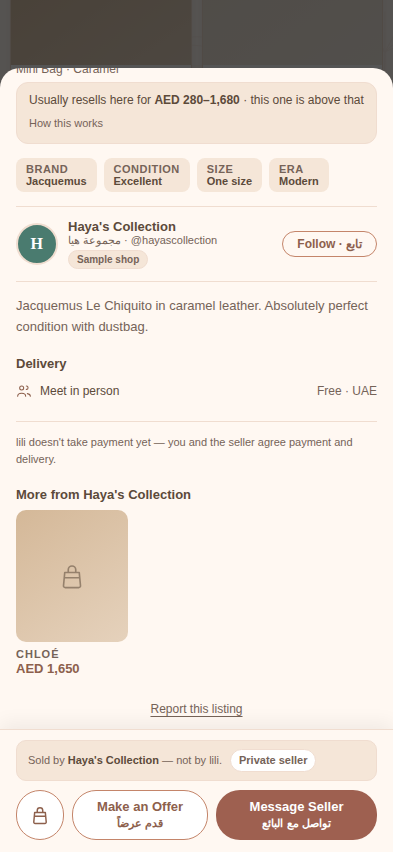
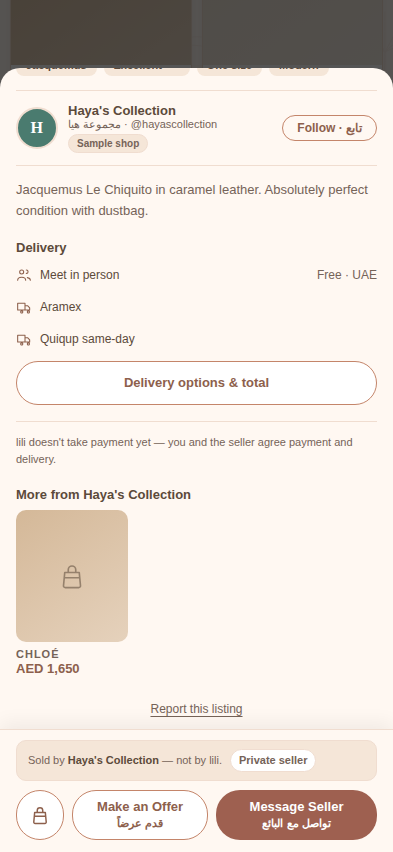
Delivery you can see before payments are on
- Item page: "Delivery options & total" opens the delivery sheet in preview:
  pick a UAE or GCC country, see every option the seller offers with its fee,
  and the total. It says plainly that paying in the app isn't on yet.
- Sample pieces offer couriers, parcel sizes and bundling, so the options show
  without a real shop.
- Fees fall back to the seeded estimates when the database can't be reached
  (6 s timeout); a research check keeps the two identical.
- Courier blurbs no longer make speed claims.

Claude-Session: https://claude.ai/code/session_01UPPZeDd8ShCtBFb3VinzWU

Changed region(s): [[0.0305, 0.061, 0.9771, 0.4883], [0.8244, 0.4272, 0.9771, 0.4883], [0.9466, 0.2746, 0.9771, 0.3052]]

diff --git a/app/src/delivery/CheckoutSheet.jsx b/app/src/delivery/CheckoutSheet.jsx
@@ -3,6 +3,7 @@ import { C } from "../compliance/ui.js";
 import Icon from "../icons/Icon.jsx";
 import * as remote from "../backend/remote.js";
 import * as store from "../compliance/store.js";
+import { loadRates } from "./rates.js";
 import { useFocusTrap, dialogProps } from "../a11y/useFocusTrap.js";
 import { PAYMENTS_LIVE } from "../compliance/sellerRules.js";
 import { carrier, COUNTRIES, regionFor, UNPAID_MINUTES, AUTO_RELEASE_DAYS, SHIP_WITHIN_DAYS } from "./carriers.js";
@@ -19,6 +20,24 @@ import { carrier, COUNTRIES, regionFor, UNPAID_MINUTES, AUTO_RELEASE_DAYS, SHIP_
 // ─────────────────────────────────────────────────────────────────────────────
 
 const SHIP_KEY = "lili.shipto.v1";   // the address, only if she ticks "remember"
+const UUID = /^[0-9a-f]{8}-[0-9a-f]{4}-[0-9a-f]{4}-[0-9a-f]{4}-[0-9a-f]{12}$/i;
+const SIZE_ORDER = ["XL", "L", "M", "S", "XS"];
+
+// What lili_delivery_quote does, for pieces the database doesn't hold: only
+// the ways every piece allows, priced for the largest parcel among them.
+async function localQuote(items, region) {
+  const ways = items.map((i) => (Array.isArray(i.delivery) && i.delivery.length ? i.delivery : ["meet"]));
+  const common = ways.reduce((a, w) => a.filter((k) => w.includes(k)));
+  const size = SIZE_ORDER.find((s) => items.some((i) => i.parcelSize === s)) || "S";
+  const rates = await loadRates();
+  const out = [];
+  for (const m of common) {
+    if (m === "meet") { if (region === "UAE") out.push({ method: "meet", fee: 0, confirmed: true, size }); continue; }
+    const r = rates.find((x) => x.carrier === m && x.size === size && x.region === region);
+    if (r) out.push({ method: m, fee: r.fee, confirmed: r.confirmed, size });
+  }
+  return out;
+}
 
 export default function CheckoutSheet({ items, shopName, onClose, onDone, onSignIn, onOffer }) {
   const trap = useFocusTrap(onClose);
@@ -42,8 +61,16 @@ export default function CheckoutSheet({ items, shopName, onClose, onDone, onSign
   }, []);
   useEffect(() => {
     setQuote(null); setMethod(null);
-    remote.deliveryQuote(ids, region).then((q) => { setQuote(q); setMethod(q[0] ? q[0].method : null); })
-      .catch(() => setQuote([]));
+    const show = (q) => { setQuote(q); setMethod(q[0] ? q[0].method : null); };
+    // a listing in the database is quoted by the database; a sample piece (or
+    // no connection) is quoted here from the public rate table, the same way
+    const listed = ids.every((id) => UUID.test(String(id)));
+    const local = () => localQuote(items, region).then(show).catch(() => show([]));
+    if (listed && remote.isConfigured()) {
+      Promise.race([remote.deliveryQuote(ids, region), new Promise((_, no) => setTimeout(() => no(new Error("timeout")), 6000))])
+        .then(show).catch(local);
+    }
+    else local();
   }, [region]);
 
   const subtotal = items.reduce((n, i) => n + (Number(i.price) || 0), 0);
@@ -79,7 +106,7 @@ export default function CheckoutSheet({ items, shopName, onClose, onDone, onSign
       <div ref={trap} {...dialogProps("Buy")} onClick={(e) => e.stopPropagation()} className="safe-sheet" style={sheet}>
         <div style={{ display: "flex", alignItems: "baseline", justifyContent: "space-between", gap: 10 }}>
           <div style={{ fontFamily: "Georgia,serif", fontStyle: "italic", fontSize: 20, color: C.ink }}>
-            {items.length > 1 ? `Buy ${items.length} pieces` : "Buy"}
+            {payOn === false ? "Delivery & price" : items.length > 1 ? `Buy ${items.length} pieces` : "Buy"}
           </div>
           <button onClick={onClose} aria-label="Close" className="tap-round" style={closeBtn}>
             <Icon name="close" size={16} stroke={2} />
@@ -130,7 +157,7 @@ export default function CheckoutSheet({ items, shopName, onClose, onDone, onSign
               })}
             </div>
 
-            {courier && (
+            {courier && payOn !== false && (
               <div style={{ display: "grid", gap: 8, marginBottom: 12 }}>
                 <div style={label}>Address</div>
                 {[["name", "Full name"], ["phone", "Mobile number"], ["line1", "Building, street, area"],
@@ -156,8 +183,9 @@ export default function CheckoutSheet({ items, shopName, onClose, onDone, onSign
 
             {payOn === false ? (
               <div role="note" style={{ ...para, background: C.sand, borderRadius: 12, padding: "10px 12px", marginBottom: 10 }}>
-                Paying in the app isn't switched on yet. For now, make an offer or message the seller and pay her
-                when you meet.
+                Paying in the app isn't switched on yet, so this is what it would cost. For now, agree the
+                delivery with the seller in Messages, or make an offer. lili can't refund money you send her
+                before the piece arrives.
               </div>
             ) : (
               <p style={{ ...para, fontSize: 11, marginBottom: 10 }}>

diff --git a/app/src/market/ItemModal.jsx b/app/src/market/ItemModal.jsx
@@ -15,6 +15,7 @@ import { sizeLabel, kindOf, APPROXIMATE_NOTE } from "../sizes/sizeSystem.js";
 import { useSizeSystem } from "../sizes/SizeSystemPicker.jsx";
 import * as remote from "../backend/remote.js";
 import { carrier } from "../delivery/carriers.js";
+import { loadRates } from "../delivery/rates.js";
 import { PAYMENTS_LIVE } from "../compliance/sellerRules.js";
 const CheckoutSheet = lazy(() => import("../delivery/CheckoutSheet.jsx"));
 
@@ -97,12 +98,12 @@ function usePaymentsOn() {
 
 // How this piece can reach a buyer, after Yaga's listing page: every option
 // the seller switched on, with the fee for its parcel size in the UAE.
-export function DeliveryInfo({item}) {
+export function DeliveryInfo({item, onSeeTotal}) {
   const [rates, setRates] = useState([]);
   const ways = Array.isArray(item.delivery) && item.delivery.length ? item.delivery : ["meet"];
   useEffect(() => {
-    if (!remote.isConfigured() || !ways.some(k => k !== "meet")) return;
-    remote.deliveryRates().then(setRates).catch(() => setRates([]));
+    if (!ways.some(k => k !== "meet")) return;
+    loadRates().then(setRates);
   }, [item.id]);
   const size = item.parcelSize || "S";
   const fee = (k, region) => rates.find(r => r.carrier === k && r.size === size && r.region === region);
@@ -126,6 +127,12 @@ export function DeliveryInfo({item}) {
         })}
       </div>
       {item.bundling && <div style={{fontSize:11,color:C.inkLt,marginTop:4}}>Bundle more of her pieces and pay one delivery fee.</div>}
+      {onSeeTotal && (
+        <button onClick={onSeeTotal} style={{marginTop:8,width:"100%",minHeight:44,borderRadius:22,cursor:"pointer",
+          background:C.white,border:`1.5px solid ${C.terra}`,color:C.terraTx,fontWeight:700,fontSize:13,fontFamily:"inherit"}}>
+          Delivery options &amp; total
+        </button>
+      )}
     </section>
   );
 }
@@ -239,7 +246,7 @@ export function ItemModal({item,shop,items=[],onOpenItem,onSave,onClose,onOffer,
               where the facts do not support it is what persuasion.js refuses.
               What a buyer needs here is the one thing that is true and that
               nothing else on this screen tells her. */}
-          <DeliveryInfo item={item}/>
+          <DeliveryInfo item={item} onSeeTotal={item.reserved ? null : ()=>setBuying(true)}/>
 
           <div style={{fontSize:11,color:C.inkLt,lineHeight:1.6,marginBottom:18,
             paddingTop:12,borderTop:`1px solid ${C.border}`}}>

diff --git a/app/src/delivery/carriers.js b/app/src/delivery/carriers.js
@@ -26,9 +26,9 @@ export const CARRIERS = [
   { key: "quiqup", name: "Quiqup same-day", regions: ["UAE"],
     about: "A rider collects from you and delivers the same day." },
   { key: "smsa", name: "SMSA Express", regions: ["UAE", "GCC"],
-    about: "Strong across Saudi Arabia and the Gulf. Drop off at an SMSA branch." },
+    about: "Covers Saudi Arabia and the Gulf. Drop off at an SMSA branch." },
   { key: "dhl", name: "DHL Express", regions: ["UAE", "GCC"],
-    about: "Fastest across borders. Drop off at a DHL point or book a pickup.",
+    about: "Express across the UAE and the GCC. Drop off at a DHL point or book a pickup.",
     track: (n) => `https://www.dhl.com/ae-en/home/tracking/tracking-express.html?submit=1&tracking-id=${encodeURIComponent(n)}` },
 ];
 export const COURIERS = CARRIERS.filter((c) => c.key !== "meet");
@@ -42,6 +42,25 @@ export const PARCEL_SIZES = [
   { key: "L",  label: "Large",       fits: "A coat, boots, a large bag",    dims: "up to 60 × 40 × 40 cm · 5 kg" },
   { key: "XL", label: "Extra large", fits: "A bundle, a suitcase-size bag", dims: "up to 60 × 50 × 60 cm · 10 kg" },
 ];
+
+// The starting estimates migration 33 seeds into lili_delivery_rates, kept here
+// so fees still show with no connection or for sample pieces. The database is
+// the source: lili corrects fees there, and a fee confirmed with the courier
+// only ever comes from it. The research suite checks the two match.
+const SEEDED = {
+  aramex_UAE: "XS:20 S:25 M:30 L:40 XL:55",
+  aramex_GCC: "XS:60 S:75 M:95 L:130 XL:180",
+  emirates_post_UAE: "XS:15 S:20 M:28 L:35 XL:50",
+  smsa_UAE: "XS:20 S:25 M:32 L:40 XL:55",
+  smsa_GCC: "XS:55 S:70 M:90 L:120 XL:170",
+  quiqup_UAE: "XS:25 S:25 M:30 L:35 XL:45",
+  dhl_UAE: "XS:30 S:35 M:45 L:60 XL:85",
+  dhl_GCC: "XS:120 S:150 M:200 L:260 XL:350",
+};
+export const ESTIMATED_RATES = Object.entries(SEEDED).flatMap(([k, v]) => {
+  const [carrierKey, region] = [k.slice(0, k.lastIndexOf("_")), k.slice(k.lastIndexOf("_") + 1)];
+  return v.split(" ").map((p) => { const [size, fee] = p.split(":"); return { carrier: carrierKey, size, region, fee: Number(fee), confirmed: false }; });
+});
 
 /** Where a buyer can have it sent. Everything outside the UAE is "GCC". */
 export const COUNTRIES = [

diff --git a/app/src/market/shared.jsx b/app/src/market/shared.jsx
@@ -184,6 +184,25 @@ export const ITEMS = [
   {id:10,shopId:3,title:"Jacquemus Le Chiquito",titleAr:"جاكيموس لو شيكيتو",subtitle:"Mini Bag · Caramel",price:1800,brand:"Jacquemus",category:"Bags",condition:"Excellent",era:"Modern",size:"OS",color:"#C9A96E",icon:"bag",photo:null,saved:false,desc:"Jacquemus Le Chiquito in caramel leather. Absolutely perfect condition with dustbag.",offers:[]},
 ];
 
+// How each sample piece can reach a buyer (migration 33), so the delivery
+// options, fees and checkout can be seen before any real shop has set them.
+const SAMPLE_DELIVERY = {
+  1: [["meet","aramex","dhl"], "M", true],
+  2: [["meet","aramex","emirates_post","quiqup"], "S", true],
+  3: [["meet","aramex","smsa"], "M", false],
+  4: [["meet","dhl"], "XS", false],
+  5: [["meet","aramex","quiqup","smsa"], "M", false],
+  6: [["meet","emirates_post","quiqup"], "S", false],
+  7: [["meet","aramex","emirates_post"], "XS", false],
+  8: [["meet","aramex","quiqup","smsa","dhl"], "S", false],
+  9: [["meet","aramex","dhl"], "S", true],
+  10: [["meet","aramex","quiqup"], "S", false],
+};
+for (const it of ITEMS) {
+  const d = SAMPLE_DELIVERY[it.id];
+  if (d) Object.assign(it, { delivery: d[0], parcelSize: d[1], bundling: d[2] });
+}
+
 export const CATS = ["All","Luxury","Bags","Dresses","Shoes","Abayas","Tops","Jackets","Skirts"];
 /**
  * A category in Arabic.

diff --git a/app/src/delivery/DeliverySettings.jsx b/app/src/delivery/DeliverySettings.jsx
@@ -1,7 +1,7 @@
 import { useEffect, useState } from "react";
 import { C } from "../compliance/ui.js";
 import Icon from "../icons/Icon.jsx";
-import * as remote from "../backend/remote.js";
+import { loadRates } from "./rates.js";
 import { CARRIERS, PARCEL_SIZES } from "./carriers.js";
 
 // ─────────────────────────────────────────────────────────────────────────────
@@ -16,10 +16,7 @@ import { CARRIERS, PARCEL_SIZES } from "./carriers.js";
 
 export default function DeliverySettings({ form, setForm }) {
   const [rates, setRates] = useState([]);
-  useEffect(() => {
-    if (!remote.isConfigured()) return;
-    remote.deliveryRates().then(setRates).catch(() => setRates([]));
-  }, []);
+  useEffect(() => { loadRates().then(setRates); }, []);
 
   const on = Array.isArray(form.delivery) && form.delivery.length ? form.delivery : ["meet"];
   const size = form.parcelSize || "S";

diff --git a/app/src/delivery/rates.js b/app/src/delivery/rates.js
@@ -1,0 +1,19 @@
+import * as remote from "../backend/remote.js";
+import { ESTIMATED_RATES } from "./carriers.js";
+
+// Courier fees from the database, or the seeded estimates when it can't be
+// reached within a few seconds. Asked once per launch.
+let cached = null;
+export function loadRates() {
+  if (!cached) {
+    const live = remote.isConfigured()
+      ? Promise.race([remote.deliveryRates(), new Promise((_, no) => setTimeout(() => no(new Error("timeout")), 6000))])
+      : Promise.reject(new Error("offline"));
+    cached = live.then((r) => (r && r.length ? r : ESTIMATED_RATES)).catch(() => {
+      // use the estimates now, and ask the database again in a minute
+      setTimeout(() => { cached = null; }, 60000);
+      return ESTIMATED_RATES;
+    });
+  }
+  return cached;
+}
